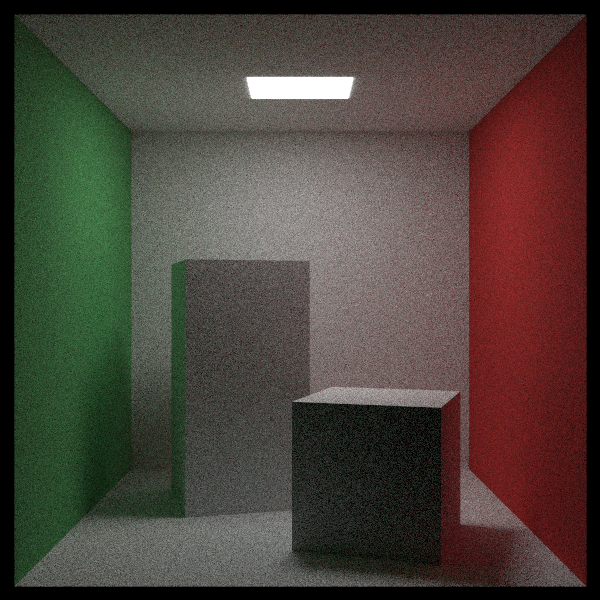
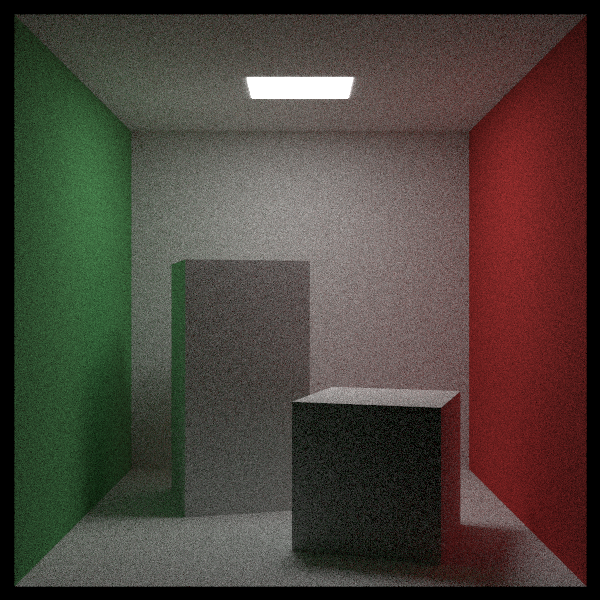
remove unused parts of camera

diff --git a/src/camera.rs b/src/camera.rs
@@ -10,10 +10,6 @@ use crate::{
     primitives::{Color, Point3, Ray, Vec3, color, interval, point3, ray, vec3},
 };
 
-fn opt_assert(cond: bool) -> Option<()> {
-    cond.then_some(())
-}
-
 #[derive(Debug, Clone, Copy)]
 pub struct CameraOptions {
     /// The aspect ratio of the output image.
@@ -32,12 +28,6 @@ pub struct CameraOptions {
     pub look_at: Point3,
     /// A vector representing the upwards direction.
     pub vup: Vec3,
-    /// The angle of the defocus cone.
-    pub defocus_angle: f64,
-    /// The distance where objects are perfectly in focus.
-    pub focus_dist: f64,
-    /// The default color if a ray doesn't collide with anything.
-    pub background: Color,
 }
 
 impl Default for CameraOptions {
@@ -51,9 +41,6 @@ impl Default for CameraOptions {
             look_from: Point3::default(),
             look_at: point3(0.0, 0.0, -1.0),
             vup: vec3(0.0, 1.0, 0.0),
-            defocus_angle: 0.0,
-            focus_dist: 10.0,
-            background: color(0.0, 0.0, 0.0),
         }
     }
 }
@@ -67,15 +54,11 @@ pub struct Camera {
     pixel_00_loc: Point3,
     pixel_delta_u: Vec3,
     pixel_delta_v: Vec3,
-    defocus_angle: f64,
-    defocus_disk_u: Vec3,
-    defocus_disk_v: Vec3,
-    background: Color,
 }
 
 impl Camera {
     #[must_use]
-    pub fn new(options: CameraOptions) -> Option<Self> {
+    pub fn new(options: CameraOptions) -> Self {
         let CameraOptions {
             aspect_ratio,
             image_width,
@@ -85,20 +68,18 @@ impl Camera {
             look_from,
             look_at,
             vup,
-            defocus_angle,
-            focus_dist,
-            background,
         } = options;
         let image_height = (image_width as f64 / aspect_ratio).round() as usize;
 
         // ensure dimensions are greater than 0.
-        opt_assert(aspect_ratio > 0.0)?;
-        opt_assert(image_width > 0)?;
-        opt_assert(image_height > 0)?;
+        assert!(aspect_ratio > 0.0);
+        assert!(image_width > 0);
+        assert!(image_height > 0);
 
+        let focal_length = (look_from - look_at).length();
         let theta = v_fov.to_radians();
         let h = (theta / 2.0).tan();
-        let viewport_height = 2.0 * h * focus_dist;
+        let viewport_height = 2.0 * h * focal_length;
         let viewport_width = viewport_height * (image_width as f64 / image_height as f64);
 
         let w = (look_from - look_at).unit_vector();
@@ -112,14 +93,10 @@ impl Camera {
         let pixel_delta_v = viewport_v / image_height as f64;
 
         let viewport_upper_left =
-            look_from - (w * focus_dist) - viewport_u / 2.0 - viewport_v / 2.0;
+            look_from - (w * focal_length) - viewport_u / 2.0 - viewport_v / 2.0;
         let pixel_00_loc = viewport_upper_left + (pixel_delta_u + pixel_delta_v) * 0.5;
 
-        let defocus_radius = focus_dist * (defocus_angle / 2.0).to_radians().tan();
-        let defocus_disk_u = u * defocus_radius;
-        let defocus_disk_v = v * defocus_radius;
-
-        Some(Self {
+        Self {
             image_height,
             image_width,
             samples_per_pixel,
@@ -128,16 +105,10 @@ impl Camera {
             pixel_00_loc,
             pixel_delta_u,
             pixel_delta_v,
-            defocus_angle,
-            defocus_disk_u,
-            defocus_disk_v,
-            background,
-        })
+        }
     }
 
-    // Renders a hittable into a 2d array of colors
     pub fn render(&self, world: &dyn Hittable) -> Vec<Vec<Color>> {
-        // AtomicUsize is faster than Mutex
         let count = Arc::new(AtomicUsize::new(0));
 
         let mut result = vec![];
@@ -158,7 +129,6 @@ impl Camera {
         result
     }
 
-    // Renders a scanline into Vec of colors
     pub fn scanline(&self, world: &dyn Hittable, y: usize) -> Vec<Color> {
         let mut emitted_values = Vec::with_capacity(self.max_depth);
         let mut attenuation_values = Vec::with_capacity(self.max_depth);
@@ -180,8 +150,6 @@ impl Camera {
             .collect()
     }
 
-    // Gets the final color of a ray through a given world. Recursively calls
-    // itself for scattered rays
     fn ray_color(
         &self,
         r: Ray,
@@ -199,8 +167,6 @@ impl Camera {
             })
     }
 
-    // old took 210.883
-    // new took 191.507
 
     fn bounce_ray(
         &self,
@@ -223,7 +189,7 @@ impl Camera {
                     return emitted;
                 }
             } else {
-                return self.background;
+                return color(0.0, 0.0, 0.0);
             }
         }
         color(0.0, 0.0, 0.0)
@@ -235,19 +201,9 @@ impl Camera {
             + (self.pixel_delta_u * (x as f64 + offset.x))
             + (self.pixel_delta_v * (y as f64 + offset.y));
 
-        let ray_origin = if self.defocus_angle <= 0.0 {
-            self.look_from
-        } else {
-            self.defocus_disk_sample()
-        };
-        let ray_direction = pixel_sample - ray_origin;
+        let ray_direction = pixel_sample - self.look_from;
 
-        ray(ray_origin, ray_direction)
-    }
-
-    fn defocus_disk_sample(&self) -> Point3 {
-        let p = Vec3::random_in_unit_disk();
-        self.look_from + (self.defocus_disk_u * p.x) + (self.defocus_disk_v * p.y)
+        ray(self.look_from, ray_direction)
     }
 }
 

diff --git a/src/main.rs b/src/main.rs
@@ -118,10 +118,8 @@ pub fn cornell_box() -> (HittableList, Camera) {
         v_fov: 40.0,
         look_from: point3(278.0, 278.0, -800.0),
         look_at: point3(278.0, 278.0, 0.0),
-        background: color(0.0, 0.0, 0.0),
         ..Default::default()
-    })
-    .unwrap();
+    });
 
     (world, cam)
 }
@@ -136,7 +134,12 @@ fn main() {
     println!("Rendering took {:.3}", end.as_secs_f64());
 
     let start = Instant::now();
-    write_png("output/cornel_box.png", pixels, cam.image_width, cam.image_height);
+    write_png(
+        "output/cornel_box.png",
+        pixels,
+        cam.image_width,
+        cam.image_height,
+    );
     let end = start.elapsed();
 
     println!("Saving took {:.3}", end.as_secs_f64());
